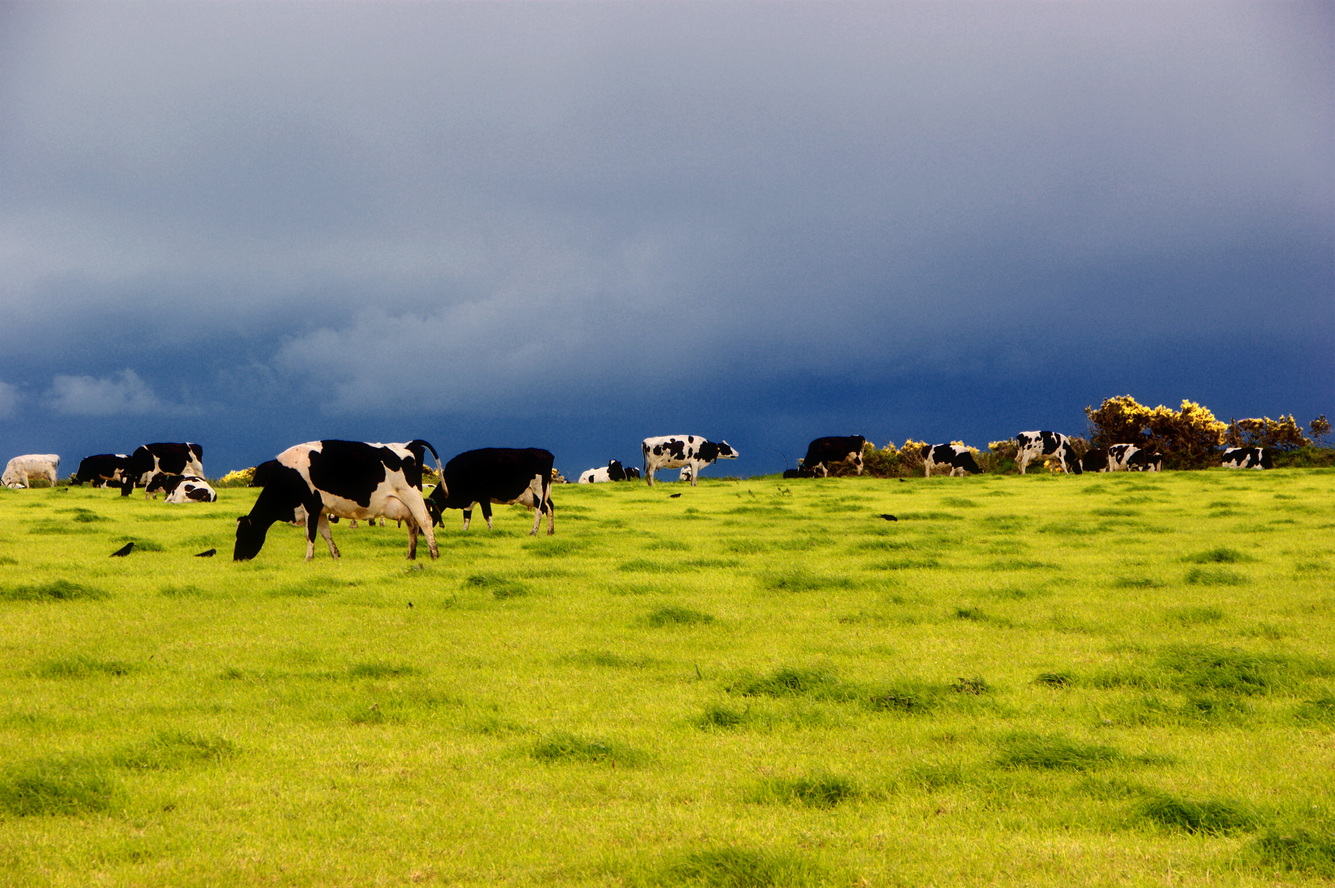
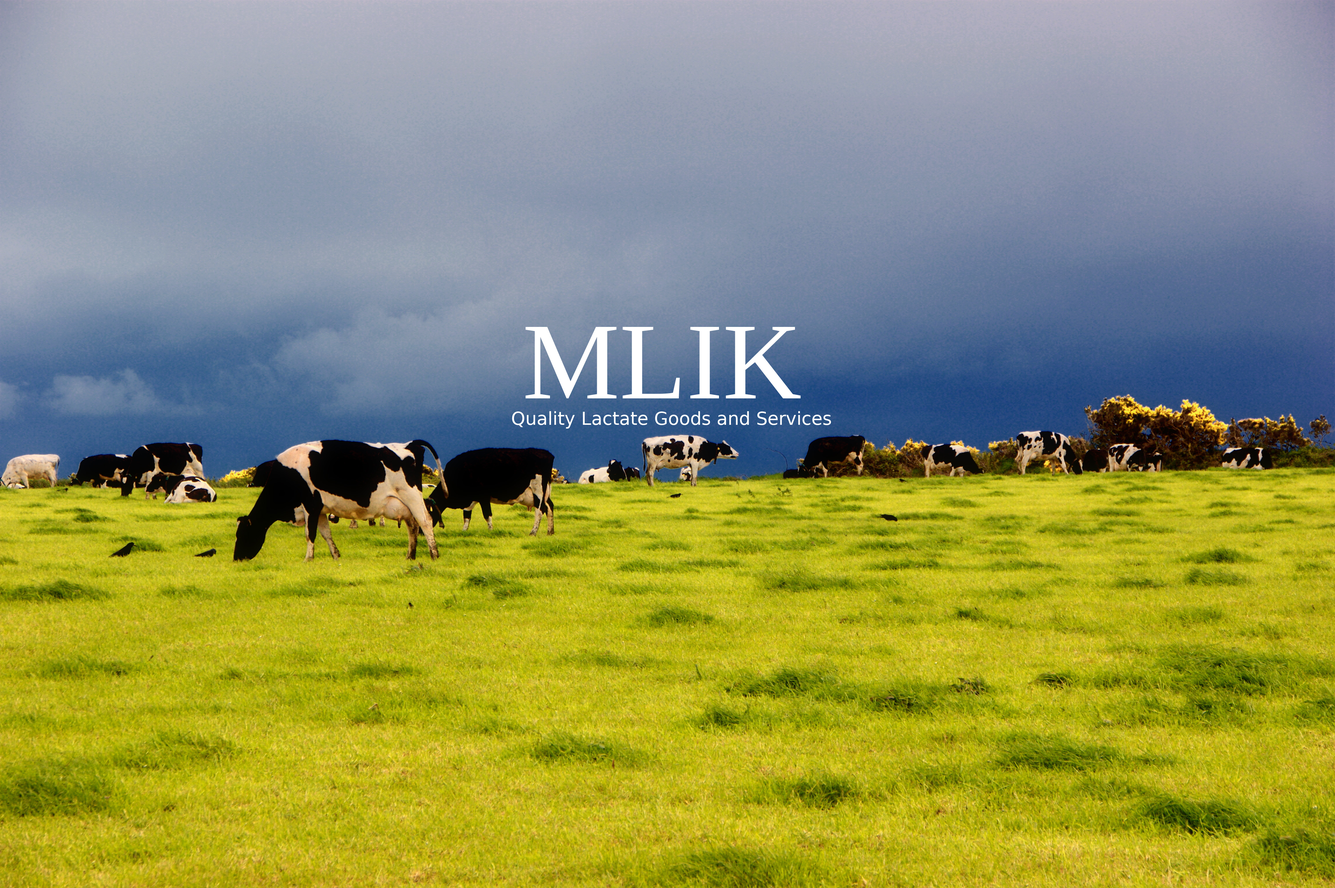
Updated header with proper title

Changed region(s): [[0.3737, 0.342, 0.6228, 0.4974]]

diff --git a/public_html/css.css b/public_html/css.css
@@ -24,7 +24,7 @@ header, footer {
     margin: 10px 10px 0px 10px;
     text-align: center;
     font-family: Cambria, "Hoefler Text", "Liberation Serif", Times, "Times New Roman", "serif";
-    padding-top: 200px;
+    padding-top: 300px;
 }
 
 body {

diff --git a/public_html/navbar.php b/public_html/navbar.php
@@ -1,8 +1,6 @@
 <?php
 	session_start();
-	$nav = "<header>
-
-			<h1>The mlik header image goes here!</h1>";
+	$nav = "<header>";
 
 	if ($_SESSION['loggedIn']){
 		$nav = $nav . '<h3>Welcome ' . $_SESSION['fname'] . '! </h3>';
